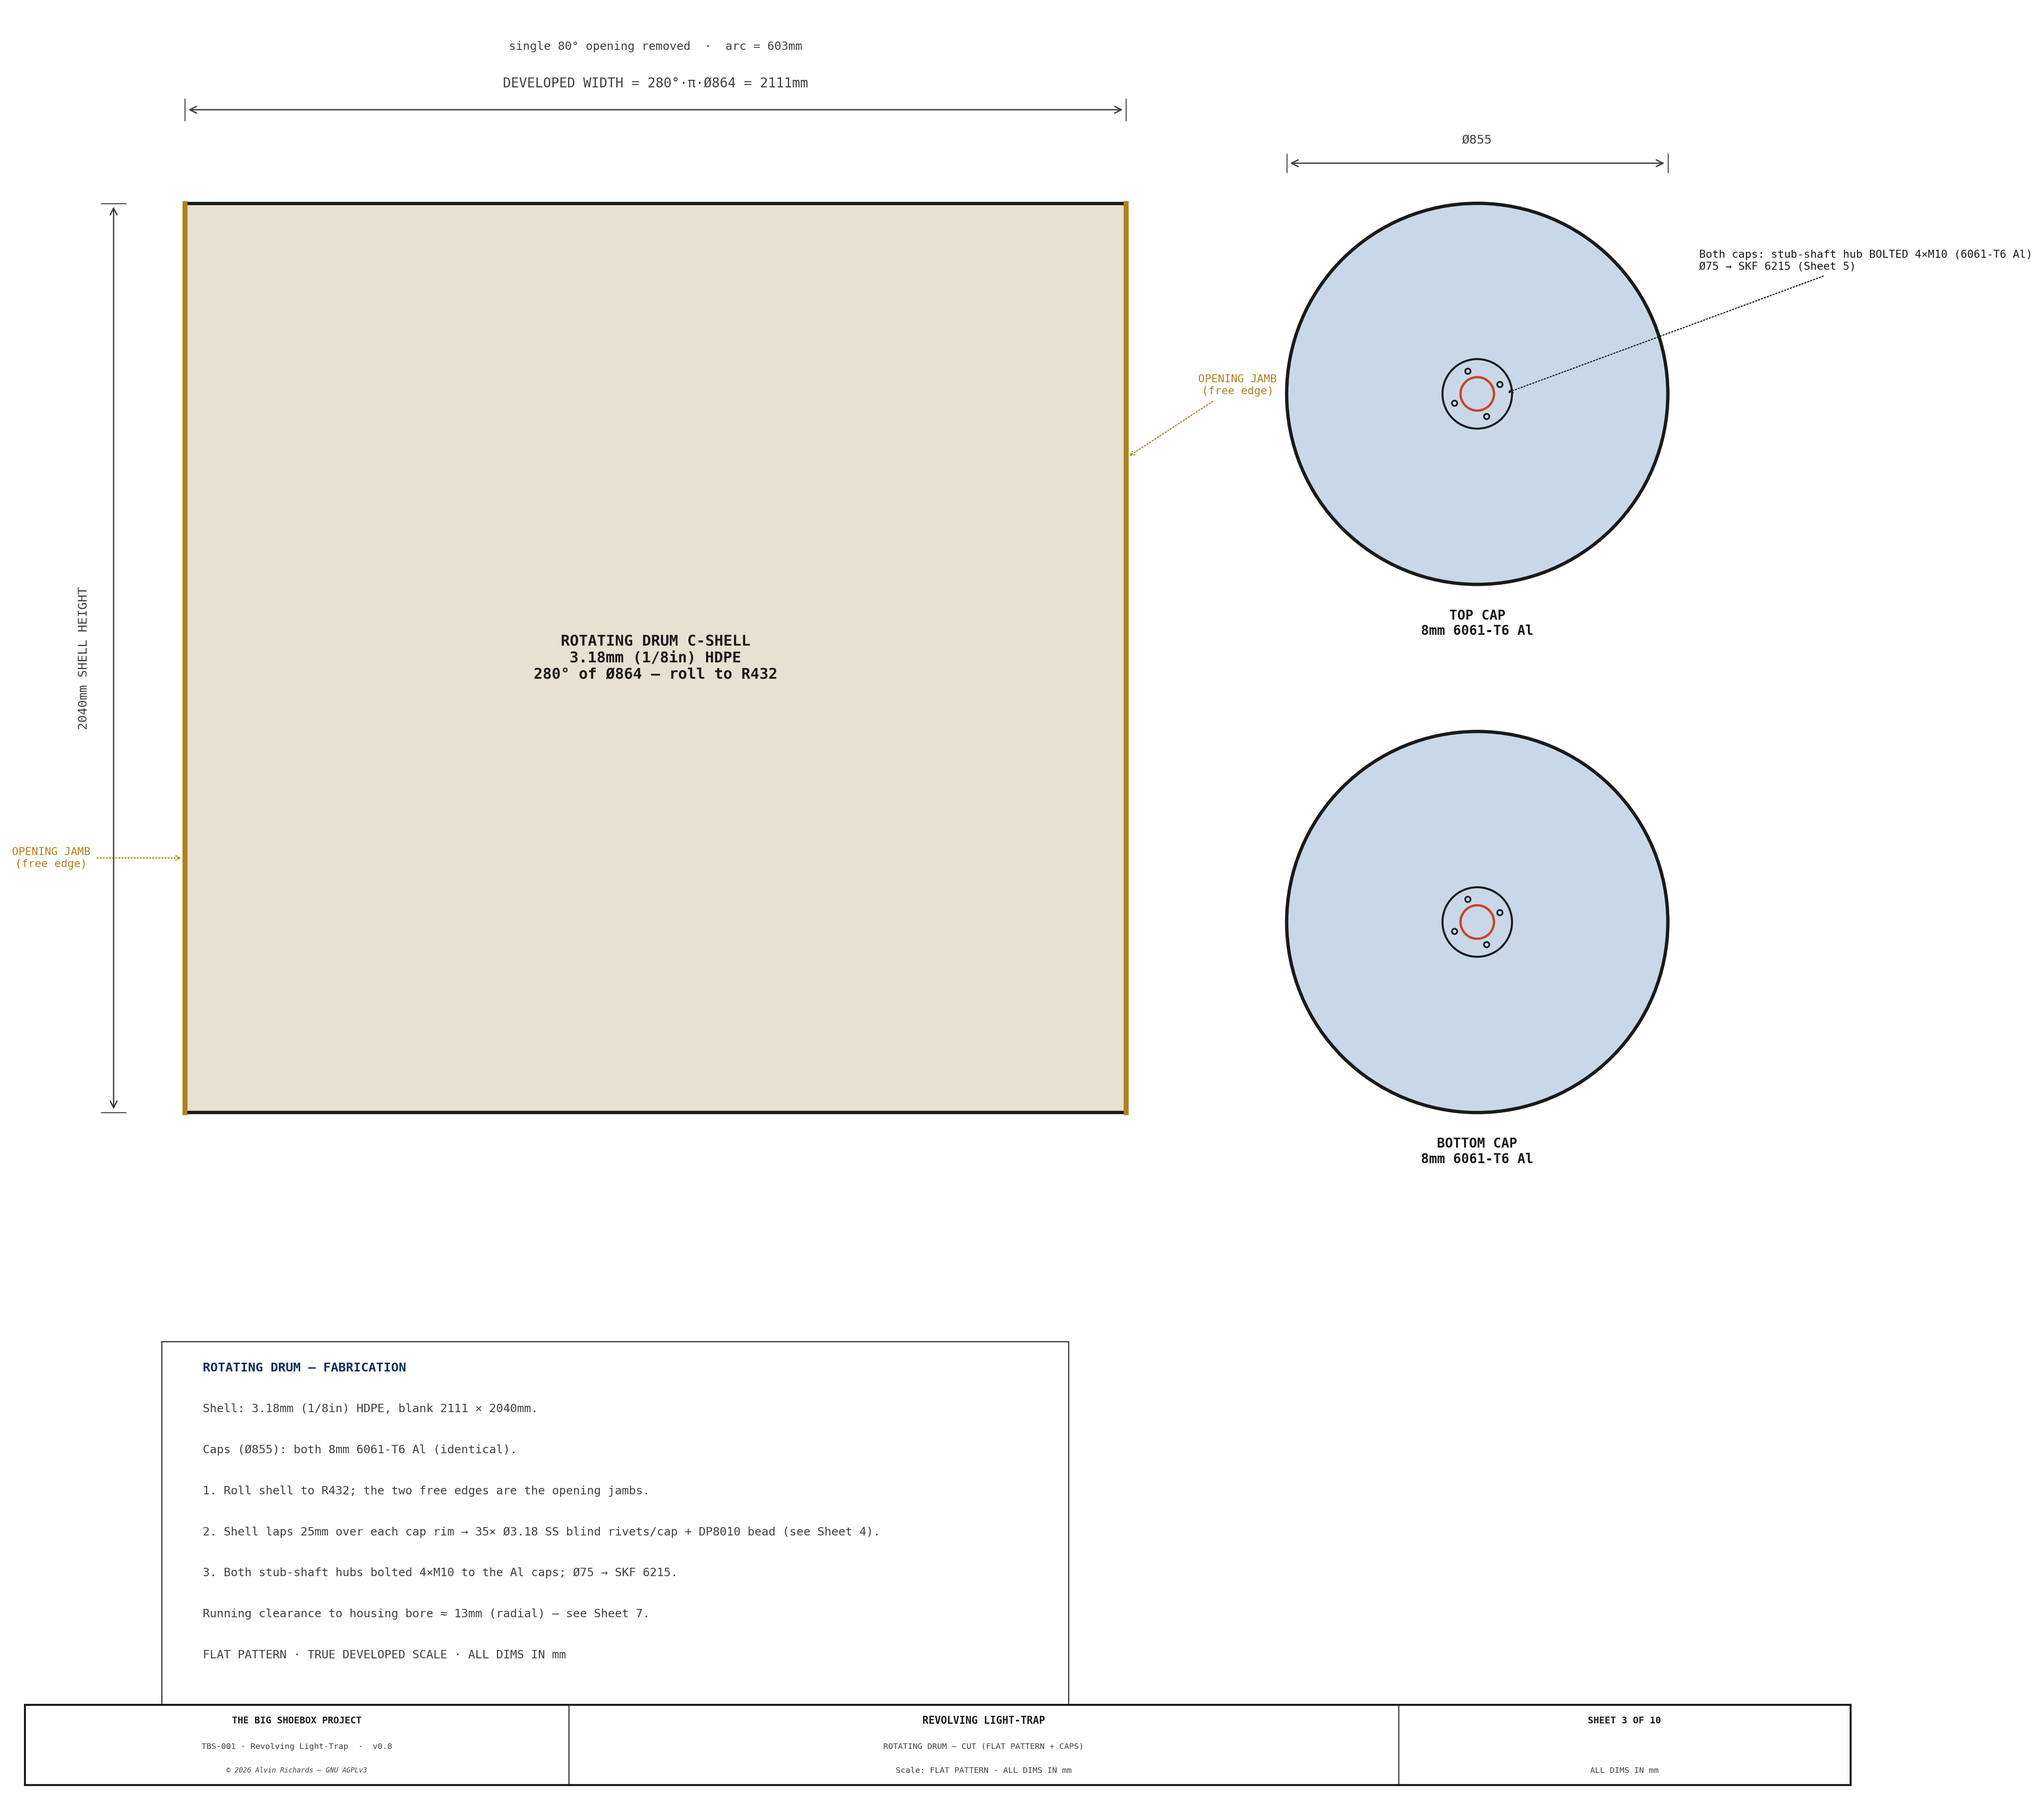
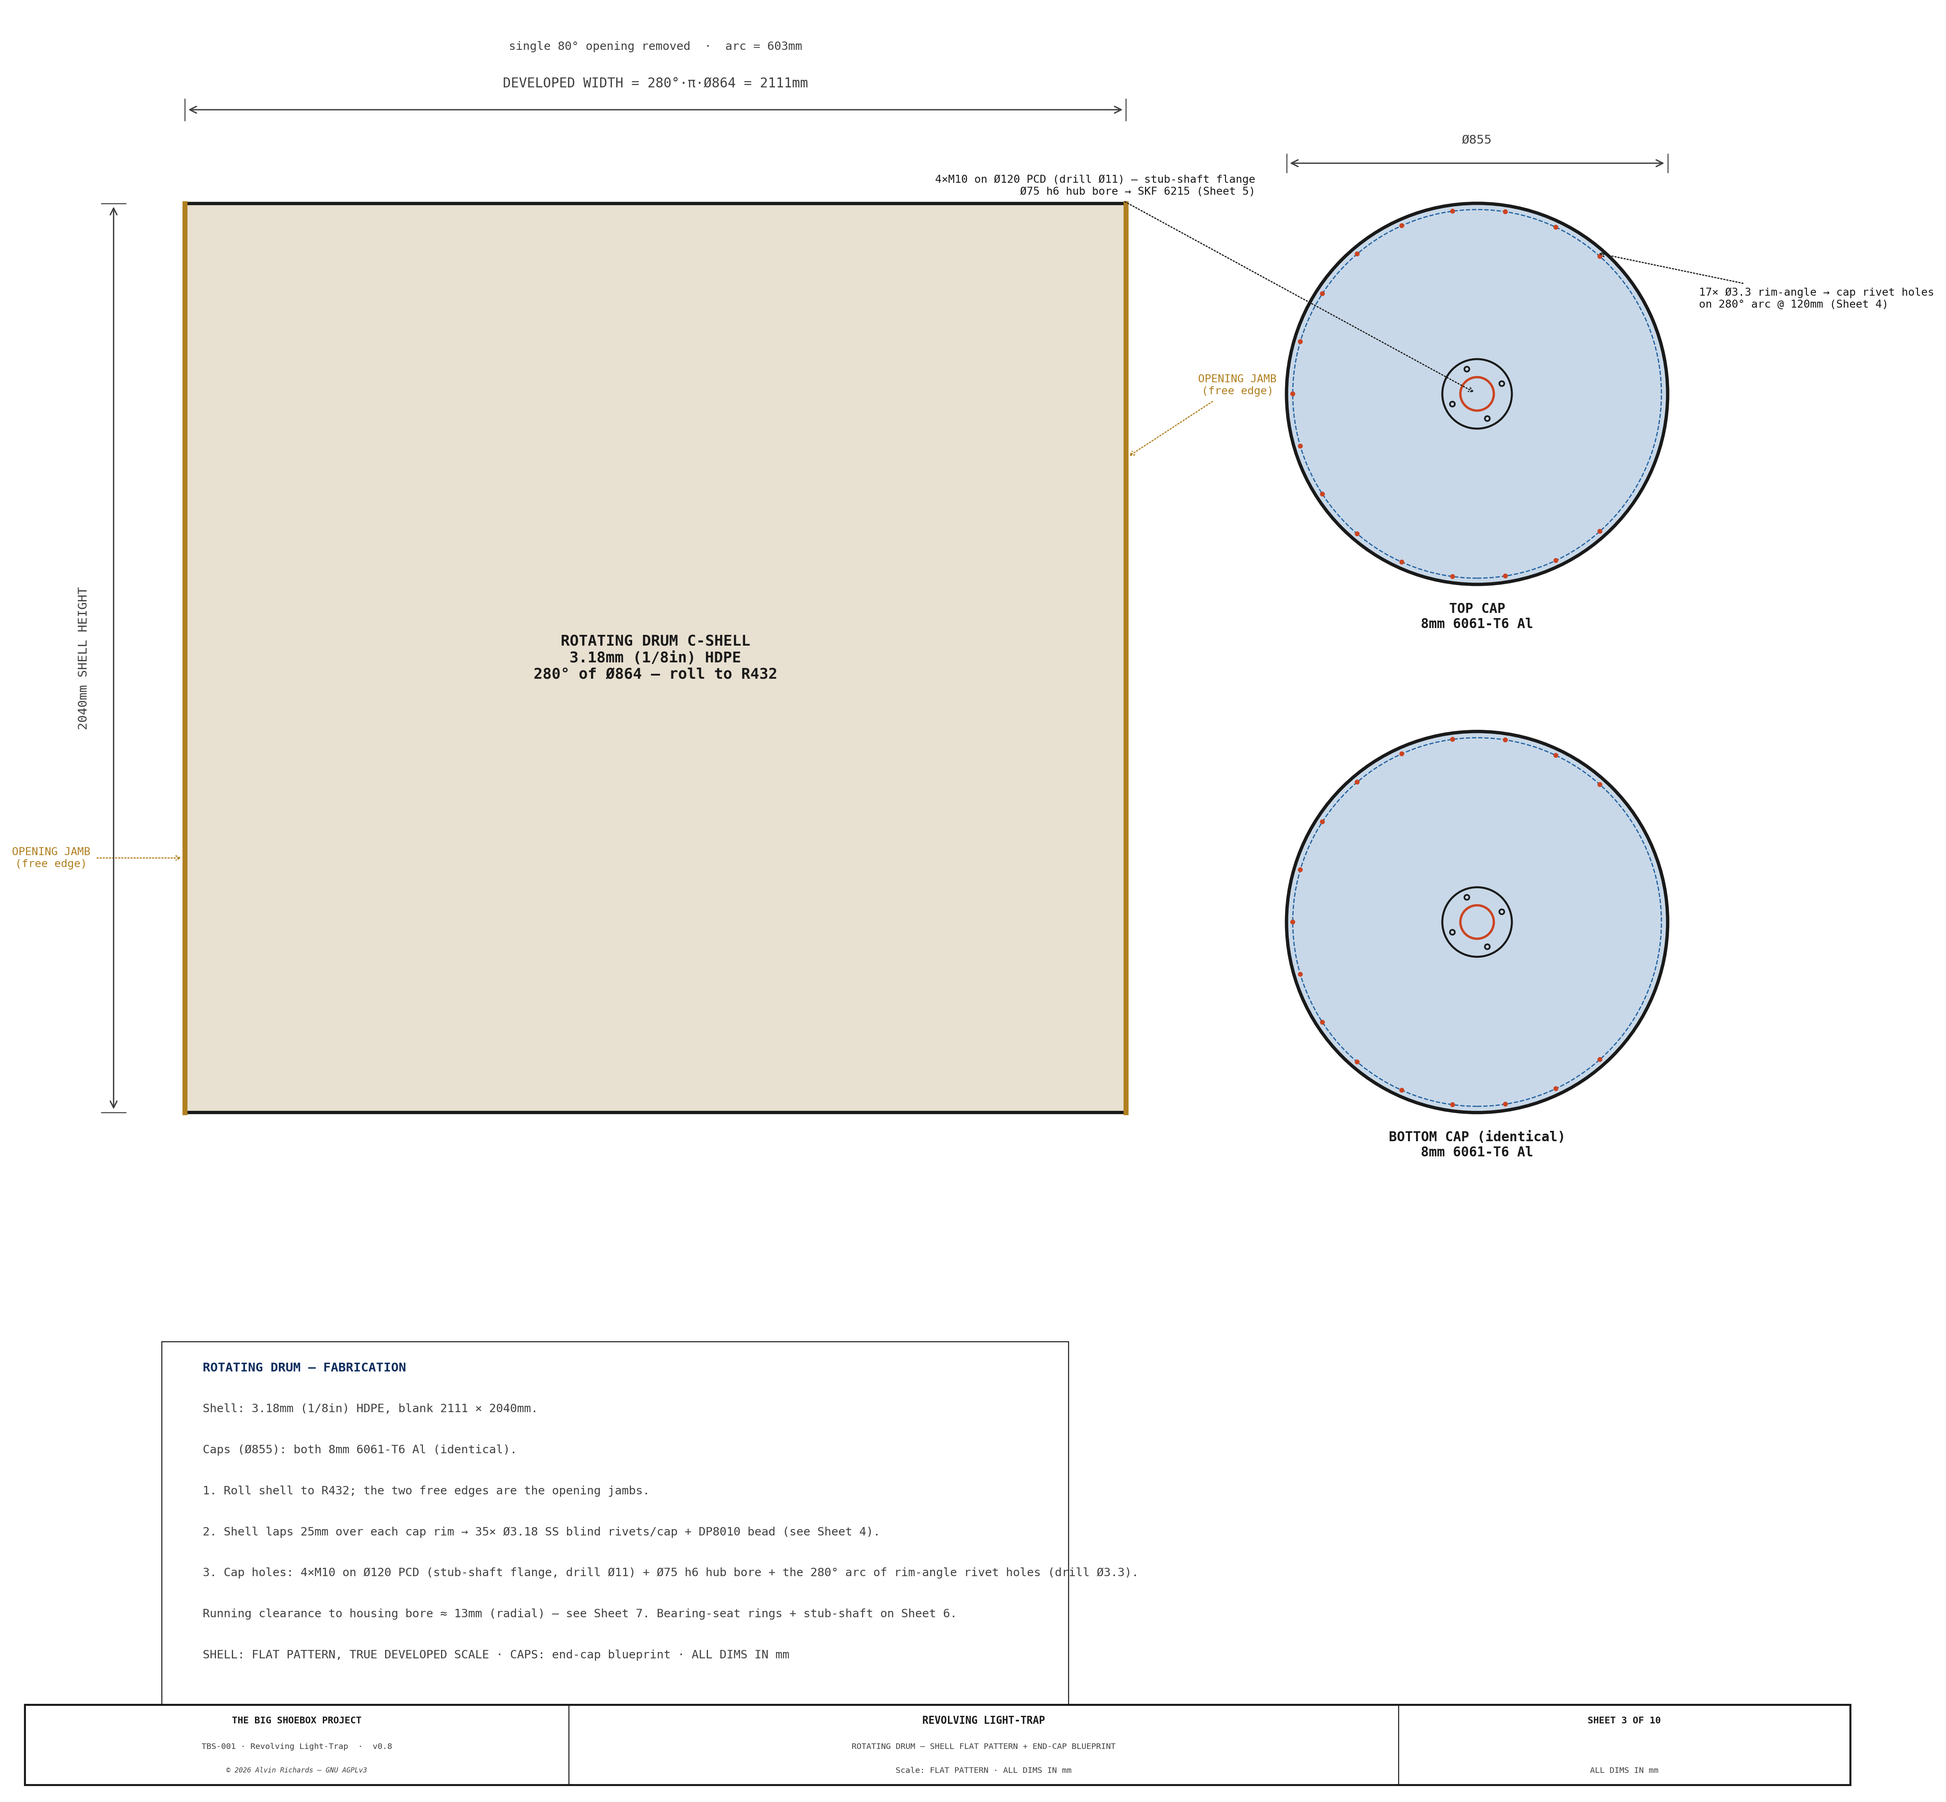
lighttrap Sheet 3: full end-cap blueprint (Ø75 bore, 4×M10 on Ø120 PCD, 280° rim-rivet hole arc + callouts); Sheet 6: enlarge component diagrams to 1:1

diff --git a/src/generators/generate_lighttrap_diagram.py b/src/generators/generate_lighttrap_diagram.py
@@ -428,30 +428,35 @@ def draw_sheet3():
             f"single {LT_OPENING_DEG}° opening removed  ·  arc = {OW:.0f}mm",
             ha="center", va="bottom", fontsize=7, color=C_DIM, **FONT, zorder=15)
 
-    # ── Top + bottom caps (Ø855 metal discs; top Al bolted, bottom steel welded) ──
-    # Top cap — 6061-T6 aluminum, bolted stub-shaft flange (4×M10)
-    draw_circle(ax, cap_cx, cz_top, cap_r, lw=2.0, color=C_OUT, fill=True,
-                fc=C_ALUM, zorder=4)
-    draw_circle(ax, cap_cx, cz_top, 78, lw=1.2, color=C_OUT, zorder=6)       # hub boss
-    draw_circle(ax, cap_cx, cz_top, SKF6215_ID / 2, lw=1.4, color="#CC4422", zorder=7)
-    bolt_holes(ax, cap_cx, cz_top, 55, 4, 6, color=C_OUT, zorder=7)          # 4× M10 flange
-    ax.text(cap_cx, cz_top - cap_r - 55, f"TOP CAP\n{LT_CAP_TOP_T:.0f}mm 6061-T6 Al",
-            ha="center", va="top", fontsize=8, color=C_OUT, fontweight="bold",
-            **FONT, zorder=15)
-    # Bottom cap — 6061-T6 Al, bolted stub-shaft flange (identical to top)
-    draw_circle(ax, cap_cx, cz_bot, cap_r, lw=2.0, color=C_OUT, fill=True,
-                fc=C_ALUM, zorder=4)
-    draw_circle(ax, cap_cx, cz_bot, 78, lw=1.2, color=C_OUT, zorder=6)       # hub boss
-    draw_circle(ax, cap_cx, cz_bot, SKF6215_ID / 2, lw=1.4, color="#CC4422", zorder=7)
-    bolt_holes(ax, cap_cx, cz_bot, 55, 4, 6, color=C_OUT, zorder=7)          # 4× M10 flange
-    ax.text(cap_cx, cz_bot - cap_r - 55, f"BOTTOM CAP\n{LT_CAP_BOT_T:.0f}mm 6061-T6 Al",
-            ha="center", va="top", fontsize=8, color=C_OUT, fontweight="bold",
-            **FONT, zorder=15)
-    draw_dim_h(ax, cap_cx - cap_r, cap_cx + cap_r, cz_top + cap_r + 90,
-               f"Ø{LT_CAP_OD}", offset=70, fs=7.5, font=FONT)
-    leader(ax, cap_cx + 60, cz_top, cap_cx + cap_r + 70, cz_top + cap_r * 0.7,
-           f"Both caps: stub-shaft hub BOLTED 4×M10 (6061-T6 Al)\n"
-           f"Ø{SKF6215_ID} → SKF 6215 (Sheet 5)",
+    # ── Top + bottom caps — full END-CAP blueprint (Ø855 6061-T6 Al discs) ───
+    oh = LT_OPENING_DEG / 2
+    n_rim = round((LT_SHELL_ARC / 360.0) * math.pi * LT_CAP_OD / LT_RIM_RIVET_PITCH)  # rim-angle → cap rivets
+    r_rim = cap_r - 14                                                       # rim-rivet bolt circle (near edge)
+
+    def end_cap(cz, label):
+        draw_circle(ax, cap_cx, cz, cap_r, lw=2.0, color=C_OUT, fill=True, fc=C_ALUM, zorder=4)
+        draw_circle(ax, cap_cx, cz, 78, lw=1.2, color=C_OUT, zorder=6)       # hub boss
+        draw_circle(ax, cap_cx, cz, SKF6215_ID / 2, lw=1.4, color="#CC4422", zorder=7)  # Ø75 shaft bore
+        bolt_holes(ax, cap_cx, cz, 60, 4, 5.5, color=C_OUT, zorder=7)        # 4× M10 flange on Ø120 PCD
+        # rim-angle → cap rivet holes on the 280° arc (the 80° opening has no rim)
+        for i in range(n_rim):
+            a = math.radians(oh + (i + 0.5) / n_rim * LT_SHELL_ARC)
+            draw_circle(ax, cap_cx + r_rim * math.cos(a), cz + r_rim * math.sin(a), 4,
+                        lw=0.8, color="#CC4422", fill=True, fc="#CC4422", zorder=7)
+        draw_circle(ax, cap_cx, cz, r_rim, lw=0.7, color=C_CL, ls="--", zorder=5)
+        ax.text(cap_cx, cz - cap_r - 40, label, ha="center", va="top", fontsize=8,
+                color=C_OUT, fontweight="bold", **FONT, zorder=15)
+
+    end_cap(cz_top, f"TOP CAP\n{LT_CAP_TOP_T:.0f}mm 6061-T6 Al")
+    end_cap(cz_bot, f"BOTTOM CAP (identical)\n{LT_CAP_BOT_T:.0f}mm 6061-T6 Al")
+    draw_dim_h(ax, cap_cx - cap_r, cap_cx + cap_r, cz_top + cap_r + 90, f"Ø{LT_CAP_OD}",
+               offset=70, fs=7.5, font=FONT)
+    leader(ax, cap_cx, cz_top, cap_cx - cap_r - 70, cz_top + cap_r + 40,
+           f"4×M10 on Ø120 PCD (drill Ø11) — stub-shaft flange\nØ{SKF6215_ID} h6 hub bore → SKF 6215 (Sheet 5)",
+           fs=6.5, color=C_OUT, ha="right", arrow_style="->", font=FONT)
+    leader(ax, cap_cx + r_rim * math.cos(math.radians(50)), cz_top + r_rim * math.sin(math.radians(50)),
+           cap_cx + cap_r + 70, cz_top + cap_r * 0.5,
+           f"{n_rim}× Ø{LT_RIVET_HOLE} rim-angle → cap rivet holes\non 280° arc @ {LT_RIM_RIVET_PITCH}mm (Sheet 4)",
            fs=6.5, color=C_OUT, ha="left", arrow_style="->", font=FONT)
 
     # ── Fabrication notes ────────────────────────────────────────────────────
@@ -461,15 +466,15 @@ def draw_sheet3():
         f"Caps (Ø{LT_CAP_OD}): both {LT_CAP_TOP_T:.0f}mm 6061-T6 Al (identical).",
         f"1. Roll shell to R{LT_DRUM_OR}; the two free edges are the opening jambs.",
         f"2. Shell laps {LT_LAP_H}mm over each cap rim → {LT_RIVET_N}× Ø{LT_RIVET_D} SS blind rivets/cap + DP8010 bead (see Sheet 4).",
-        "3. Both stub-shaft hubs bolted 4×M10 to the Al caps; Ø75 → SKF 6215.",
-        f"Running clearance to housing bore ≈ {RUN_GAP_L}mm (radial) — see Sheet 7.",
-        "FLAT PATTERN · TRUE DEVELOPED SCALE · ALL DIMS IN mm",
+        "3. Cap holes: 4×M10 on Ø120 PCD (stub-shaft flange, drill Ø11) + Ø75 h6 hub bore + the 280° arc of rim-angle rivet holes (drill Ø3.3).",
+        f"Running clearance to housing bore ≈ {RUN_GAP_L}mm (radial) — see Sheet 7. Bearing-seat rings + stub-shaft on Sheet 6.",
+        "SHELL: FLAT PATTERN, TRUE DEVELOPED SCALE · CAPS: end-cap blueprint · ALL DIMS IN mm",
     ]
     draw_notes(ax, notes, 40, -560, 92, fs=7, font=FONT, width=1850,
                title_color=TITLE_COL)
 
     title_block(ax, "SHEET 3 OF 10", drawing_title="REVOLVING LIGHT-TRAP",
-                subtitle="ROTATING DRUM — CUT (FLAT PATTERN + CAPS)",
+                subtitle="ROTATING DRUM — SHELL FLAT PATTERN + END-CAP BLUEPRINT",
                 scale_note="FLAT PATTERN · ALL DIMS IN mm",
                 doc_id="TBS-001 · Revolving Light-Trap", height=0.045, scale=0.75)
     fig.savefig(os.path.join(DIAGRAMS_DIR, "lighttrap-sheet3.png"),
@@ -1353,7 +1358,7 @@ def draw_sheet9():
 # OD / bore / PCD / bolt holes) + SECTION (thickness) + full dims + material.
 # ═════════════════════════════════════════════════════════════════════════════
 def draw_sheet_components():
-    X_LO, X_HI, Z_LO, Z_HI = -300, 2260, -520, 360
+    X_LO, X_HI, Z_LO, Z_HI = -170, 1980, -650, 400
     FIG_W = 20.0
     FIG_H = FIG_W * (Z_HI - Z_LO) / (X_HI - X_LO)
     fig, ax = plt.subplots(figsize=(FIG_W, FIG_H), dpi=DIAGRAM_DPI)
@@ -1363,8 +1368,8 @@ def draw_sheet_components():
     ax.set_ylim(Z_LO, Z_HI)
     ax.set_aspect("equal")                                                   # ISOTROPIC 1:2
     ax.axis("off")
-    s2 = 0.5                                                                  # 1:2
-    ax.text(980, Z_HI - 8, "MACHINED COMPONENTS — BEARING SEATS & STUB-SHAFT  (single-part blueprints · 1:2)",
+    s2 = 1.0                                                                  # 1:1
+    ax.text(880, Z_HI - 8, "MACHINED COMPONENTS — BEARING SEATS & STUB-SHAFT  (single-part blueprints · 1:1)",
             ha="center", va="top", fontsize=9, color=TITLE_COL, fontweight="bold", **FONT, zorder=15)
 
     def holes(cx, cz, rpcd, n):
@@ -1377,7 +1382,7 @@ def draw_sheet_components():
 
     def ring(cx, od, bore, pcd, n, thk, fc, title, mat, weldnote=None):
         rod, rbore, rpcd = od / 2 * s2, bore / 2 * s2, pcd / 2 * s2
-        pz, sz = 120, -170                                                   # plan / section z-centers
+        pz, sz = 160, -150                                                   # plan / section z-centers
         # ── PLAN (end view) ──
         ax.text(cx, pz + rod + 40, title, ha="center", va="bottom", fontsize=8,
                 color=TITLE_COL, fontweight="bold", **FONT, zorder=10)
@@ -1408,18 +1413,18 @@ def draw_sheet_components():
                 ha="center", va="top", fontsize=6.6, color=C_OUT, **FONT, zorder=9)
 
     # ── 1 · Upper Al bearing ring ────────────────────────────────────────────
-    ring(80, LT_TOPRING_OD, SKF6215_OD, 165, LT_FRAME_MOUNT_BOLT_TOP, 30, C_ALUM,
+    ring(200, LT_TOPRING_OD, SKF6215_OD, 165, LT_FRAME_MOUNT_BOLT_TOP, 30, C_ALUM,
          "UPPER BEARING RING", "6061-T6 Al · bore Ø130 H7 (bearing seat) · isolate w/ nylon shoulder")
     # ── 2 · Lower steel floor collar ─────────────────────────────────────────
-    ring(880, LT_COLLAR_OD, SKF6215_OD, 175, LT_FRAME_MOUNT_BOLT_BOT, 30, C_STEEL,
+    ring(880, LT_COLLAR_OD, SKF6215_OD, 175, LT_FRAME_MOUNT_BOLT_BOT, 30, C_STEEL,  # collar
          "LOWER FLOOR COLLAR", "A36 steel · bore Ø130 (bearing seat)", weldnote="6mm fillet weld to floor plate")
 
     # ── 3 · Stub-shaft + flange (elevation + flange plan) ────────────────────
-    cx = 1720
+    cx = 1580
     sh_r, fl_r, fl_t = SKF6215_ID / 2 * s2, 160 / 2 * s2, 12 * s2
     shaft_L = 150 * s2
-    ez = -125                                                                # elevation base (flange top)
-    ax.text(cx, 120 + fl_r + 40, "STUB-SHAFT + FLANGE", ha="center", va="bottom", fontsize=8,
+    ez = -230                                                                # elevation base (flange top)
+    ax.text(cx, 160 + fl_r + 40, "STUB-SHAFT + FLANGE", ha="center", va="bottom", fontsize=8,
             color=TITLE_COL, fontweight="bold", **FONT, zorder=10)
     # ELEVATION: flange (bottom) + shaft (up)
     draw_rect(ax, cx - fl_r, ez - fl_t, 2 * fl_r, fl_t, fc=C_STEEL, lw=1.6, zorder=5)     # flange
@@ -1436,7 +1441,7 @@ def draw_sheet_components():
     ax.text(cx, ez + shaft_L + 16, "Ø75 h6 stub · circlip groove each end", ha="center", va="bottom",
             fontsize=6.2, color=C_DIM, **FONT, zorder=9)
     # FLANGE PLAN (above the elevation)
-    fpz = 120
+    fpz = 160
     draw_circle(ax, cx, fpz, fl_r, lw=1.8, color=C_OUT, fill=True, fc=C_STEEL, zorder=5)
     draw_circle(ax, cx, fpz, sh_r, lw=1.4, color=C_OUT, fill=True, fc="#9BA0A8", zorder=6)  # shaft (solid)
     draw_circle(ax, cx, fpz, 120 / 2 * s2, lw=0.8, color=C_CL, ls="--", zorder=6)
@@ -1453,13 +1458,13 @@ def draw_sheet_components():
         f"Bearing seat bores Ø{SKF6215_OD} H7 for the SKF 6215 OD; the stub shaft Ø{SKF6215_ID} h6 for the bearing bore. Circlip grooves (DIN 471) each side.",
         "Upper ring 6061-T6 Al (electrically isolated from the steel frame by a nylon shoulder + isolating washers); lower collar A36 steel, fillet-welded to the floor plate.",
         "Stub-shaft flange bolts to the cap (4×M10, Sheet 3); ring/collar bolt to the axle beam (Sheet 8). Bolt holes shown enlarged; drill Ø11 clearance for M10.",
-        "PLANS + SECTIONS 1:2 (isotropic) · ALL DIMS IN mm",
+        "PLANS + SECTIONS 1:1 (isotropic) · ALL DIMS IN mm",
     ]
-    draw_notes(ax, notes, X_LO + 60, -300, 40, fs=7, font=FONT, width=2450, title_color=TITLE_COL)
+    draw_notes(ax, notes, X_LO + 60, -350, 40, fs=7, font=FONT, width=2450, title_color=TITLE_COL)
 
     title_block(ax, "SHEET 6 OF 10", drawing_title="REVOLVING LIGHT-TRAP",
                 subtitle="MACHINED COMPONENTS — BEARING SEATS & STUB-SHAFT",
-                scale_note="PLANS + SECTIONS 1:2 · ALL DIMS IN mm",
+                scale_note="PLANS + SECTIONS 1:1 · ALL DIMS IN mm",
                 doc_id="TBS-001 · Revolving Light-Trap", height=0.045, scale=0.75)
     fig.savefig(os.path.join(DIAGRAMS_DIR, "lighttrap-sheet6.png"),
                 dpi=DIAGRAM_DPI, bbox_inches="tight", facecolor=BG)

diff --git a/light-trap-selection.md b/light-trap-selection.md
@@ -265,8 +265,9 @@ pattern: developed length, height, weld-seam location, and the two 80° opening 
 
 ![TBS-001 Light-Trap — Sheet 2: Housing Cylinder Cut Sheet](assets/lighttrap-sheet2.png)
 
-**Sheet 3 — Drum — Cut.** The HDPE C-shell flat pattern (single 80° opening) and the
-two end caps with the stub-shaft bore.
+**Sheet 3 — Drum — Cut (shell flat pattern + end-cap blueprint).** The HDPE C-shell flat
+pattern (single 80° opening) and the full end-cap blueprint: Ø855 disc, Ø75 hub bore,
+4×M10 stub-shaft flange on Ø120 PCD, and the 280° arc of rim-angle rivet holes.
 
 ![TBS-001 Light-Trap — Sheet 3: Drum — Cut](assets/lighttrap-sheet3.png)
 
